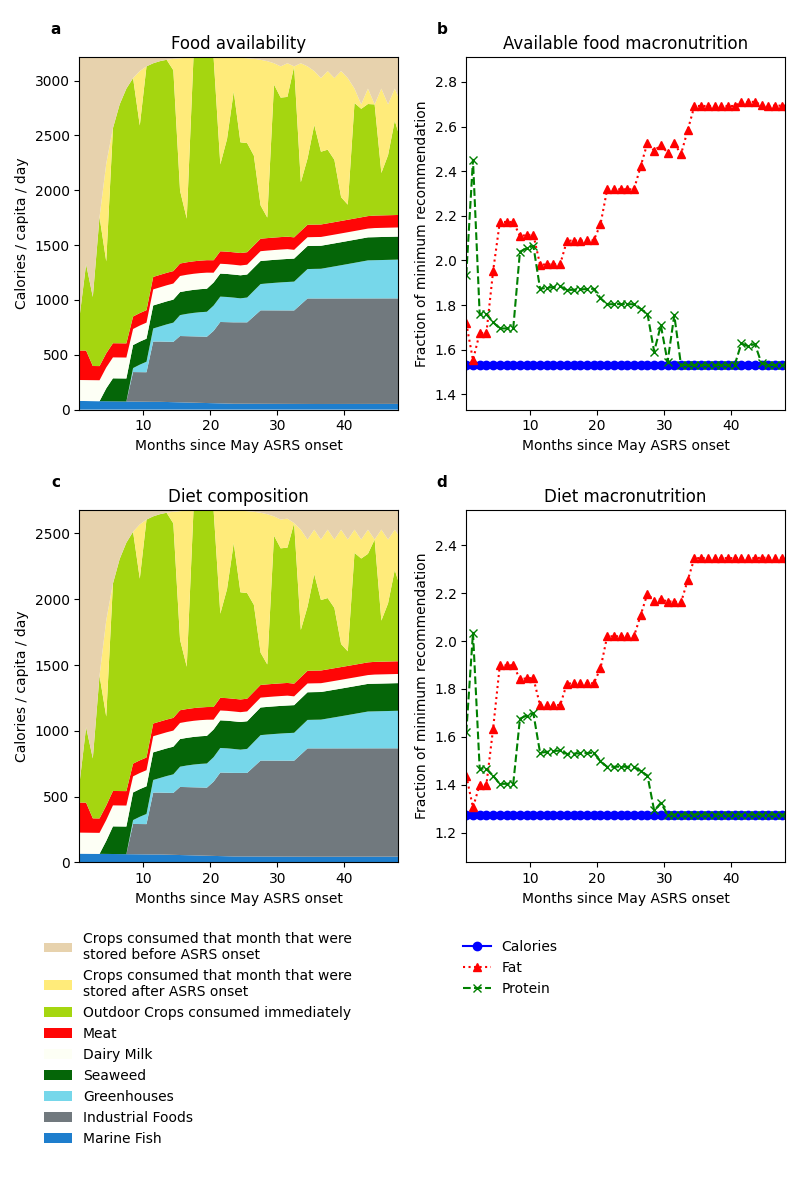
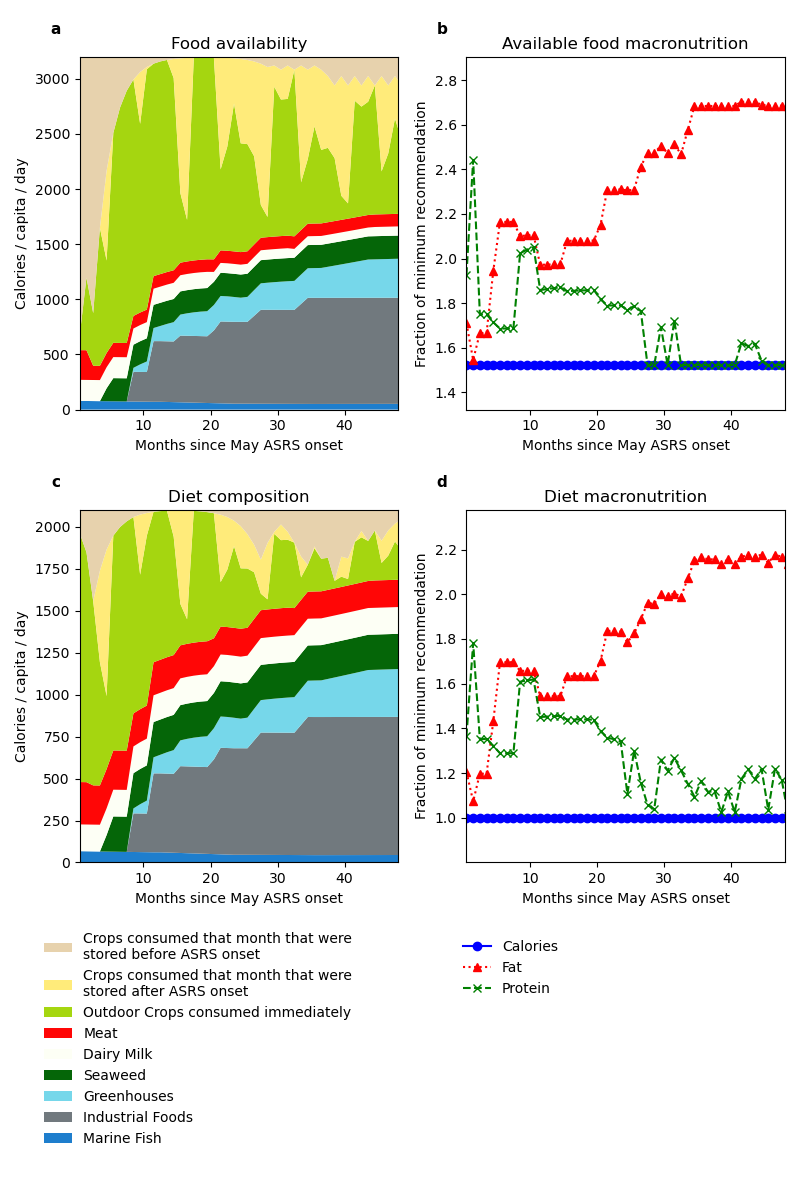
fixed the printing for resilient foods; resilient food module now calculates the diet correctly; added block comment for resilient food module file

diff --git a/src/scenarios/run_model_with_resilient_foods.py b/src/scenarios/run_model_with_resilient_foods.py
@@ -1,11 +1,9 @@
-# this program runs the optimizer model, and ensures that all the results are
-# reasonable using a couple useful checks to make sure there's nothing wacky
-# going on:
-
-# 1) check that as time increases, more people can be fed
-
-# 2) check that stored food plus meat is always used at the
-# highest rate during the largest food shortage.
+# run_model_with_resilient_foods.py
+#
+# Runs the model in nuclear winter with resilient foods, then calculates a diet
+# The diet is 2100 kcals, determined by feeding any excess to animals
+# This currently runs for the whole earth, and does not run on a by-country
+# basis.
 
 
 from datetime import datetime
@@ -140,14 +138,11 @@ while True:
         single_valued_constants,
         multi_valued_constants,
     ) = constants_loader.computeParameters(constants)
-    print(multi_valued_constants["excess_kcals"])
-    # print(excess_per_month)
+
     single_valued_constants["CHECK_CONSTRAINTS"] = False
     [time_months, time_months_middle, analysis] = optimizer.optimize(
         single_valued_constants, multi_valued_constants
     )
-    print("analysis.kcals_fed")
-    print(analysis.kcals_fed)
 
     if people_fed > 7.79 and people_fed < 7.81:
         break
@@ -159,14 +154,17 @@ while True:
     if people_fed < 8.3 and people_fed > 7.8:
         excess_per_month[feed_delay:N_MONTHS_TO_CALCULATE_DIET] = excess_per_month[
             feed_delay:N_MONTHS_TO_CALCULATE_DIET
-        ] + np.linspace(500, 500, N_MONTHS_TO_CALCULATE_DIET - feed_delay)
+        ] + np.linspace(200, 200, N_MONTHS_TO_CALCULATE_DIET - feed_delay)
     else:
         excess_per_month[feed_delay:N_MONTHS_TO_CALCULATE_DIET] = excess_per_month[
             feed_delay:N_MONTHS_TO_CALCULATE_DIET
-        ] + np.linspace(25000, 25000, N_MONTHS_TO_CALCULATE_DIET - feed_delay)
+        ] + np.linspace(15000, 15000, N_MONTHS_TO_CALCULATE_DIET - feed_delay)
     inputs_to_optimizer["EXCESS_CALORIES"] = excess_per_month
-    Plotter.plot_fig_2abcd(analysis1, analysis, 48)
     print("Diet computation complete")
+
+    people_fed = analysis.percent_people_fed / 100 * 7.8
+
+    excess_per_month = excess_per_month + analysis.excess_after_run
 
     n = n + 1
 

diff --git a/src/optimizer/parameters.py b/src/optimizer/parameters.py
@@ -397,13 +397,17 @@ class Parameters:
 
         constants["inputs"] = inputs_to_optimizer
 
-        self.print_constants(
-            constants,
-            time_consts,
-            feed,
-            stored_food,
-            biofuels
-        )
+        PRINT_FIRST_MONTH_CONSTANTS = False
+        
+        if(PRINT_FIRST_MONTH_CONSTANTS):
+            self.print_constants(
+                constants,
+                time_consts,
+                feed,
+                stored_food,
+                biofuels,
+                methane_scp
+            )
 
         return (constants, time_consts)
 
@@ -413,7 +417,8 @@ class Parameters:
         time_consts,
         feed,
         stored_food,
-        biofuels):
+        biofuels,
+        methane_scp):
 
         # used by world population
         print("")
@@ -809,7 +814,7 @@ class Parameters:
                 * 1e9
                 / self.DAYS_IN_MONTH
                 / self.POP
-                / self.SCP_KCALS_PER_KG
+                / methane_scp.SCP_KCALS_PER_KG
             )
             print("daily grams protein SCP")
             print(
@@ -817,15 +822,15 @@ class Parameters:
                 * 1e9
                 / self.DAYS_IN_MONTH
                 / self.POP
-                / self.SCP_KCALS_PER_KG
-                * self.SCP_FRAC_PROTEIN
+                / methane_scp.SCP_KCALS_PER_KG
+                * methane_scp.SCP_FRAC_PROTEIN
                 * 1000
             )
             print("1000 tons per month protein SCP")
             print(
                 np.array(production_kcals_scp_per_month)
                 * 1e9
-                / self.SCP_KCALS_PER_KG
-                * self.SCP_FRAC_PROTEIN
+                / methane_scp.SCP_KCALS_PER_KG
+                * methane_scp.SCP_FRAC_PROTEIN
                 / 1e6
             )

diff --git a/src/utilities/plotter.py b/src/utilities/plotter.py
@@ -184,7 +184,7 @@ class Plotter:
         fig.set_figheight(8)
         fig.set_figwidth(8)
         plt.tight_layout()
-        # plt.savefig('../../reports/fig_1ab.png')
+        # plt.savefig('../../results/fig_1ab.png')
         print("saved figure 1ab")
         plt.show()
 
@@ -350,7 +350,7 @@ class Plotter:
         fig.set_figheight(12)
         fig.set_figwidth(8)
         plt.tight_layout()
-        plt.savefig("../../reports/fig_2abcd.png")
+        plt.savefig("../../results/fig_2abcd.png")
         print("saved figure 2abcd")
         plt.show()
 
@@ -446,7 +446,7 @@ class Plotter:
                 ax_hist.set(title="Monte Carlo outcomes")
 
         plt.tight_layout()
-        plt.savefig("../../reports/fig_3ab.png")
+        plt.savefig("../../results/fig_3ab.png")
         print("saved figure 3ab")
         # os.system('firefox-esr plot.svg')
         plt.show()
@@ -525,7 +525,7 @@ class Plotter:
         plt.tight_layout()
 
         plt.rcParams["figure.figsize"] = [12, 9]
-        plt.savefig("../../reports/fig_s1.png")
+        plt.savefig("../../results/fig_s1.png")
         print("saved figure s1")
         plt.show()
 
@@ -699,7 +699,7 @@ class Plotter:
         fig.set_figheight(12)
         fig.set_figwidth(8)
         plt.tight_layout()
-        plt.savefig("../../reports/fig_s2abcd.png")
+        plt.savefig("../../results/fig_s2abcd.png")
         print("saved figure s2abcd")
         plt.show()
 
@@ -866,7 +866,7 @@ class Plotter:
         fig.set_figheight(12)
         fig.set_figwidth(8)
         plt.tight_layout()
-        # plt.savefig('../../reports/fig_s1abcd.png')
+        # plt.savefig('../../results/fig_s1abcd.png')
         print("saved figure s1abcd")
         plt.show()
 
